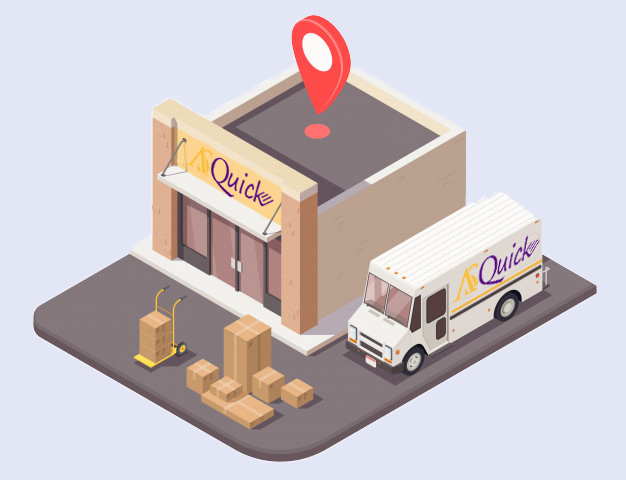
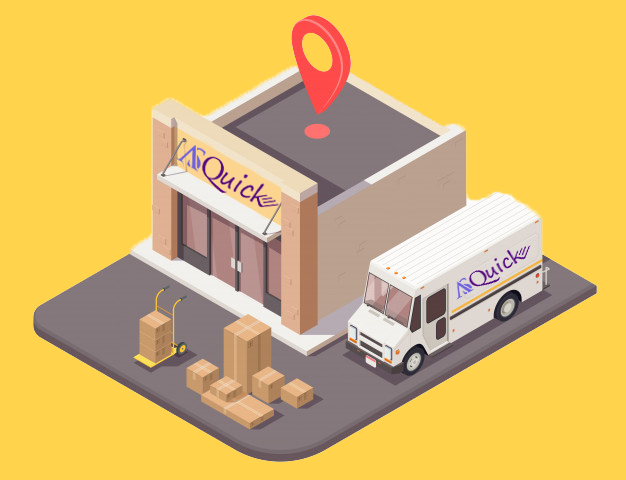
update images and color

diff --git a/style.css b/style.css
@@ -148,7 +148,7 @@ p {
 	letter-spacing: initial;
 }
 #header .nav-list ul li:hover a {
-	color: #f9bf3a;
+	color: #007bff;;;
 }
 
 .scrolling-active  .nav-list  a{
@@ -214,7 +214,7 @@ p {
 
 /* Hero Section */
 #hero {
-	background-image: url(./img/accueil.png);
+	background-image: url(./img/accueil1.png);
 	object-fit: fill;
 	background-size: cover;
 	background-position: top center;
@@ -231,7 +231,7 @@ p {
 	height: 100%;
 	width: 100%;
 	background-color: black;
-	opacity: .7;
+	opacity: .5;
 	z-index: -1;
 }
 #hero .hero {
@@ -308,12 +308,29 @@ p {
 	flex-direction: column;
 	padding: 30px;
 	border-radius: 10px;
-	background-image: url(img/qui-somme-nous.png);
-	background-size: cover;
+	background-position: top center;
+		background-repeat: no-repeat;
+		background-size: 100% 100%;
+
 	margin: 10px 5%;
 	position: relative;
 	z-index: 1;
 	overflow: hidden;
+}
+#services .service-item.one {
+	
+	background-image: url(img/livraison-express.png);
+	
+}
+#services .service-item.tow {
+	
+	background-image: url(img/suivie.png);
+	
+}
+#services .service-item.three {
+	
+	background-image: url(img/moins-de-retour.png);
+	
 }
 #services .service-item::after {
 	content: '';
@@ -323,7 +340,7 @@ p {
 	height: 100%;
 	width: 100%;
 	background-image: linear-gradient(60deg, #29323c 0%, #485563 100%);
-	opacity: .9;
+	opacity: .7;
 	z-index: -1;
 }
 #services .service-bottom .icon {
@@ -717,6 +734,13 @@ p {
 		flex-basis: 22%;
 		margin: 1.5%;
 	}
+
+
+
+
+
+	
+
 }
 table{
 	
@@ -733,12 +757,12 @@ table{
 	
 	 }
 	 #hero {
-		background-image: url(./img/accueil.png);
+		background-image: url(./img/accueil1.png);
 		object-fit: fill;
 		background-size: cover;
 		background-position: top center;
 		background-repeat: no-repeat;
-			background-size: 100% 100%;
+		background-size: 100% 100%;
 		position: relative;
 		z-index: 1;
 	}

diff --git a/index.html b/index.html
@@ -91,7 +91,7 @@ AS QUICK est l'un des principaux fournisseurs de solutions logistiques de bout e
           <h2>Suivi</h2>
           <p>Nous mettons a votre disposition une équipe spéciale pour suivre le chemin de vos colis <br> &nbsp; <br> &nbsp;</p>
         </div>
-        <div class="service-item thre">
+        <div class="service-item three">
           <div class="icon"><img src="https://img.icons8.com/bubbles/100/000000/services.png"/></div>
           <h2>Moins de retour</h2>
           <p>En cas d’annulation d’une commande AS QUICK vous propose des solutions développées comme le  changement de destination sur la même ville</p>

diff --git a/js/app.js b/js/app.js
@@ -11,7 +11,7 @@ hamburger.addEventListener('click', () => {
 document.addEventListener('scroll', () => {
 	var scroll_position = window.scrollY;
 	if (scroll_position > 250) {
-		header.style.backgroundColor = '#808080';
+		header.style.backgroundColor = '#f9bf3a';
 	} else {
 		header.style.backgroundColor = 'transparent';
 	}
